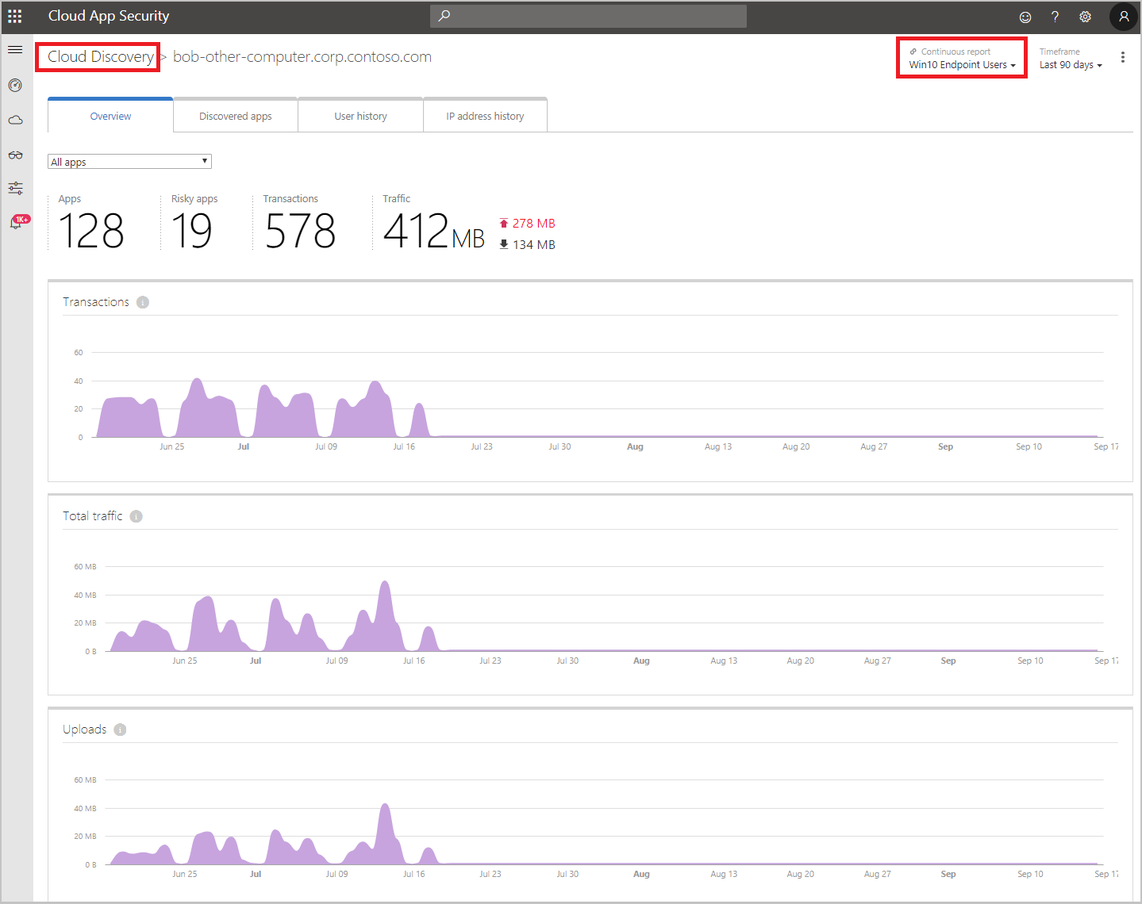
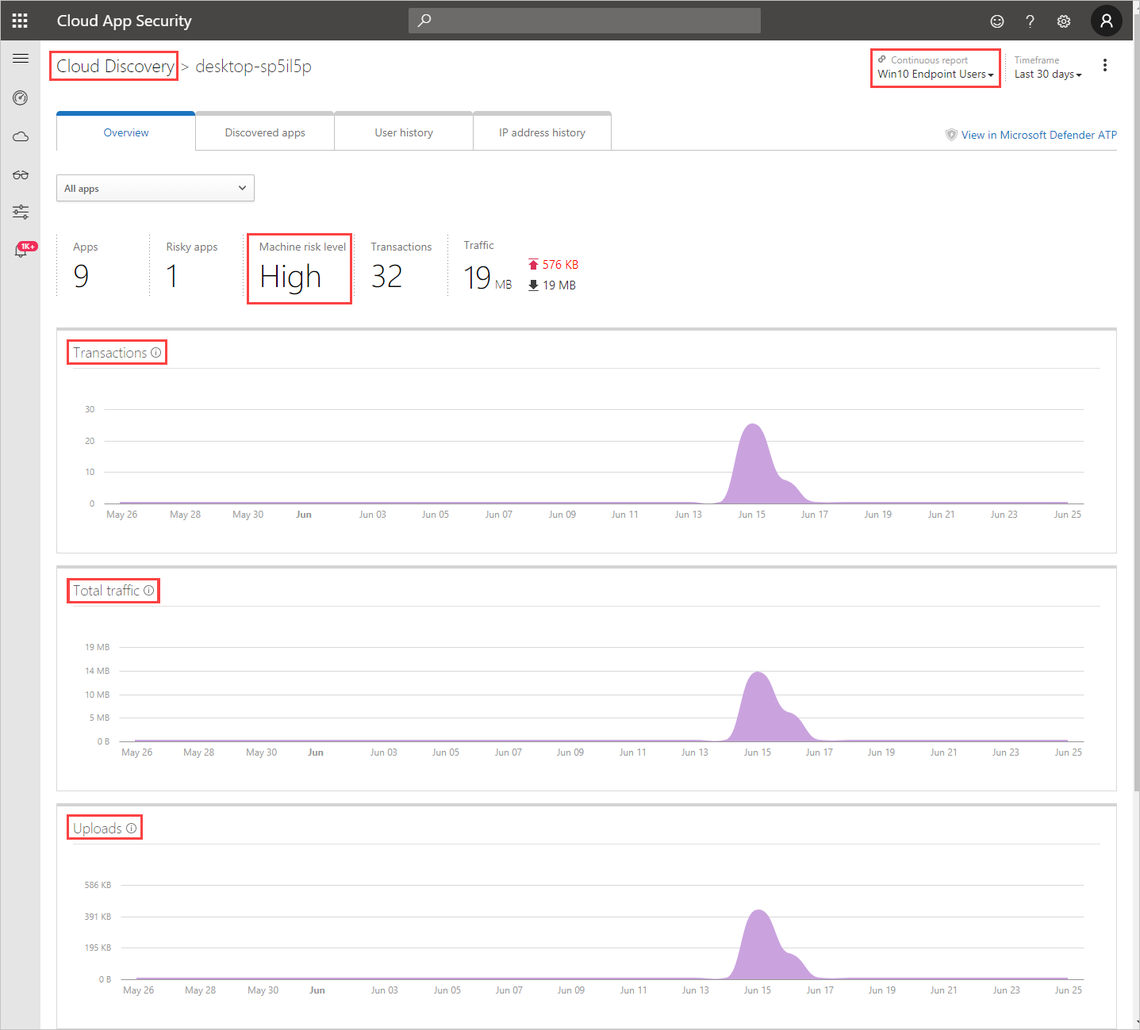
Release 178

diff --git a/CloudAppSecurityDocs/release-notes.md b/CloudAppSecurityDocs/release-notes.md
@@ -27,15 +27,33 @@ This article is updated frequently to let you know what's new in the latest rele
 
 RSS feed: Get notified when this page is updated by copying and pasting the following URL into your feed reader: `https://docs.microsoft.com/api/search/rss?search=%22This+article+is+updated+frequently+to+let+you+know+what%27s+new+in+the+latest+release+of+Cloud+App+Security%22&locale=en-us`
 
-## Cloud App Security release 177
+## Cloud App Security release 178
 
-Released June 14, 2020
+Released June 28, 2020
 
-- **New real-time malware detection (Preview, gradual rollout)**  
-We have expanded our session controls to detect potential malware using Microsoft Threat Intelligence upon file uploads or downloads. The new detection is now available out-of-the-box and can be configured to automatically block files identified as potential malware. For more information, see [Block malware on upload](session-policy-aad.md#block-malware-on-upload).
+- **New security configurations for Google Cloud Platform (gradual rollout)**  
+We've expanded our multi-cloud security configurations to provide security recommendations for Google Cloud Platform, based on the GCP CIS benchmark. With this new capability, Cloud App Security provides organizations with a single view for monitoring the compliance status across all cloud platforms, including [Azure subscriptions](security-config-azure.md), [AWS accounts](security-config-aws.md), and now [GCP projects](security-config-gcp.md).
 
-- **New access token support for access and session controls**  
-We've added the ability to treat access token and code requests as logins when onboarding apps to access and session controls. To use tokens, click the settings cog icon, select **Conditional Access App Control**, edit the relevant app (three dots menu > **Edit app**), select **Treat access token and code requests as app logins**, and then click **Save**. For more information about onboarding apps, see [Onboard and deploy any app](proxy-deployment-any-app.md) and [Deploy featured apps](proxy-deployment-aad.md).
+- **New app connectors GA**  
+We've added the following app connectors to our portfolio of generally available API connectors, giving you more visibility into and control over how your apps are used in your organization:
+  - [GitHub Enterprise Cloud](protect-github.md)
+  - [Google Cloud Platform](connect-google-gcp-to-microsoft-cloud-app-security.md)
+  - [Workday](protect-workday.md)
+
+- **New real-time malware detection GA (gradual rollout)**  
+We've expanded our session controls to detect potential malware using Microsoft Threat Intelligence upon file uploads or downloads. The new detection is now generally available out-of-the-box and can be configured to automatically block files identified as potential malware. For more information, see [Block malware on upload](session-policy-aad.md#block-malware-on-upload).
+
+- **Enhanced access and session controls with any IdP GA**  
+Access and session controls support for SAML apps configured with any identity provider is now generally available. For information about configuring these controls, see the [Deployment guide](proxy-deployment-aad.md).
+
+- **Risky machine investigation enhancement**  
+Cloud App Security provides the ability to identify risky machines as part of your shadow IT discovery investigation. Now, we've added the Microsoft Defender Advanced Threat Protection **Machine risk level** to the **machines** page giving analysts more context when investigating machines in your organization. For more information, see [Investigate machines in Cloud App Security](wdatp-integration.md#investigate-machines-in-cloud-app-security).
+
+- **New feature: Self-service disable app connector (gradual rollout)**  
+We've added the ability to disable app connectors directly in Cloud App Security. For more information, see [Disable app connectors](enable-instant-visibility-protection-and-governance-actions-for-your-apps.md#disable-connected-apps)
+
+- **Enhanced detection logic: Ransomware activity**  
+We've updated the detection logic for Ransomware activity to provide improved accuracy and reduced alert volume. For more information about this anomaly detection policy, see [Ransomware activity](anomaly-detection-policy.md#ransomware-activity).
 
 <!--
 - **New OAuth app policy templates**  
@@ -46,6 +64,16 @@ Cloud App Security now provides the following new OAuth app policy templates ena
   - **OAuth apps with high permissions and rare community use – Office**: Alert for apps with high permissions and rare community use in Office
   - **OAuth apps with rare community use - Salesforce**: Alert for apps with rare community use in Salesforce.
 -->
+
+## Cloud App Security release 177
+
+Released June 14, 2020
+
+- **New real-time malware detection (preview, gradual rollout)**  
+We've expanded our session controls to detect potential malware using Microsoft Threat Intelligence upon file uploads or downloads. The new detection is now available out-of-the-box and can be configured to automatically block files identified as potential malware. For more information, see [Block malware on upload](session-policy-aad.md#block-malware-on-upload).
+
+- **New access token support for access and session controls**  
+We've added the ability to treat access token and code requests as logins when onboarding apps to access and session controls. To use tokens, click the settings cog icon, select **Conditional Access App Control**, edit the relevant app (three dots menu > **Edit app**), select **Treat access token and code requests as app logins**, and then click **Save**. For more information about onboarding apps, see [Onboard and deploy any app](proxy-deployment-any-app.md) and [Deploy featured apps](proxy-deployment-aad.md).
 
 - **Enhanced proxy URL suffix for session controls (gradual rollout)**  
 On June 7, 2020, we started gradually rolling out our enhanced proxy session controls to use one unified suffix that doesn't include named regions. For example, users will see `<AppName>.mcas.ms` suffix instead of `<AppName>.<Region>.cas.ms`. If you routinely blacklist domains in your network appliances or gateways, make sure you whitelist all the domains listed under [Access and session controls](network-requirements.md#access-and-session-controls).
@@ -76,7 +104,7 @@ Starting June 7, 2020, we are gradually rolling out our enhanced proxy session c
 We've made significant network performance improvements to our proxy service. The improved service is even more streamlined and provides increased responsiveness when using session controls.
 
 - **New risky activity detection: Unusual failed logon**  
-We have expanded our current capability to detect risky behavior. The new detection is now available out-of-the-box and automatically enabled to alert you when an unusual failed login attempt is identified. Unusual failed login attempts may be an indication of a potential *password-spray* brute force attack (also known as the *low and slow* method). This detection impacts the overall [investigation priority score](tutorial-ueba.md) of the user.
+We've expanded our current capability to detect risky behavior. The new detection is now available out-of-the-box and automatically enabled to alert you when an unusual failed login attempt is identified. Unusual failed login attempts may be an indication of a potential *password-spray* brute force attack (also known as the *low and slow* method). This detection impacts the overall [investigation priority score](tutorial-ueba.md) of the user.
 
 - **Enhanced table experience**  
 We've added the ability to resize table column widths, so that you can widen or narrow columns to customize and improve the way you view tables. You also have the option to restore the original layout by selecting the table settings menu and choosing **Default width**.
@@ -95,14 +123,14 @@ Cloud App Security Cloud Discovery analyzes a wide range of traffic logs to rank
 As part of our ongoing improvements to the portal design, we are now gradually rolling out the improved Cloud App Security dashboard. The dashboard has been modernized based on your feedback and offers an enhanced user experience with updated content and data. For more information, see [Gradual deployment of our enhanced dashboard](daily-activities-to-protect-your-cloud-environment.md).
 
 - **Enhanced governance: Confirm User Compromised for anomaly detections**  
-We have expanded our current governance actions for anomaly policies to include **Confirm User Compromised** allowing you to proactively protect your environment from suspicious user activity. For more information, see [Activity governance actions](governance-actions.md#activity-governance-actions).
+We've expanded our current governance actions for anomaly policies to include **Confirm User Compromised** allowing you to proactively protect your environment from suspicious user activity. For more information, see [Activity governance actions](governance-actions.md#activity-governance-actions).
 
 ## Cloud App Security release 173 and 174
 
 Released April 26, 2020
 
 - **New SIEM agent CEF format for alerts**  
-As part of our effort to enrich the alert information provided in the CEF files used by generic SIEM servers, we have extended the format to include the following client fields:
+As part of our effort to enrich the alert information provided in the CEF files used by generic SIEM servers, we've extended the format to include the following client fields:
   - IPv4 address
   - IPv6 address
   - IP address location
@@ -118,14 +146,14 @@ Released April 5, 2020
 - **Enhanced access and session controls with any IdP (preview)**  
 Access and session controls now support SAML apps configured with any identity provider. The public preview of this new feature is now gradually rolling out. To configure these controls, see the [Deployment guide](proxy-deployment-aad.md).
 - **New bulk deanonymization of users and machines**  
-We have expanded and simplified the process of deanonymizing one or more users and machines under investigation. For more information about bulk deanonymization, see [How data anonymization works](cloud-discovery-anonymizer.md#how-data-anonymization-works).
+We've expanded and simplified the process of deanonymizing one or more users and machines under investigation. For more information about bulk deanonymization, see [How data anonymization works](cloud-discovery-anonymizer.md#how-data-anonymization-works).
 
 ## Cloud App Security release 170 and 171
 
 Released March 22, 2020
 
 - **New anomaly detection: Unusual region for cloud resource (preview)**  
-We have expanded our current capability to detect anomalous behavior for AWS. The new detection is now available out-of-the-box and automatically enabled to alert you when a resource is created in an AWS region where the activity is not normally performed. Attackers often leverage an organization's AWS credits to perform malicious activities such as crypto-mining. Detecting such anomalous behavior can help mitigate an attack.
+We've expanded our current capability to detect anomalous behavior for AWS. The new detection is now available out-of-the-box and automatically enabled to alert you when a resource is created in an AWS region where the activity is not normally performed. Attackers often leverage an organization's AWS credits to perform malicious activities such as crypto-mining. Detecting such anomalous behavior can help mitigate an attack.
 
 - **New activity policy templates for Microsoft Teams**  
 Cloud App Security now provides the following new activity policy templates enabling you to detect potentially suspicious activities in Microsoft Teams:
@@ -141,7 +169,7 @@ You can now control the severity of Azure AD Identity Protection alerts that are
 Released March 1, 2020
 
 - **New detection for Workday**  
-We have expanded our current anomalous behavior alerts for Workday. The new alerts include the following user geo-location detections:
+We've expanded our current anomalous behavior alerts for Workday. The new alerts include the following user geo-location detections:
   - [Activity from anonymous IP addresses](anomaly-detection-policy.md#activity-from-anonymous-ip-addresses)
   - [Activity from infrequent country](anomaly-detection-policy.md#activity-from-infrequent-country)
   - [Activity from suspicious IP addresses](anomaly-detection-policy.md#activity-from-suspicious-ip-addresses)
@@ -164,7 +192,7 @@ Released February 16, 2020
 Cloud App Security has extended its native integration with Microsoft Defender Advanced Threat Protection (ATP). You can now block access to apps marked as unsanctioned using Microsoft Defender ATP's network protection capability. For more information, see [Block access to unsanctioned cloud apps](wdatp-integration.md#block-access-to-unsanctioned-cloud-apps).
 
 - **New OAuth app anomaly detection**  
-We have expanded our current capability to detect malicious OAuth app consent. The new detection is now available out-of-the-box and automatically enabled to alert you when a potentially malicious OAuth app is authorized in your environment. This detection leverages Microsoft security research and threat intelligence expertise to identify malicious apps.
+We've expanded our current capability to detect malicious OAuth app consent. The new detection is now available out-of-the-box and automatically enabled to alert you when a potentially malicious OAuth app is authorized in your environment. This detection leverages Microsoft security research and threat intelligence expertise to identify malicious apps.
 
 - **Log collector updates**  
 The Docker-based log collector was enhanced with the following important updates:
@@ -330,7 +358,7 @@ Since previewing Conditional Access App Control for any app last month, we've re
 Cloud App Security is gradually rolling out the ability to get a security configuration assessment of your Amazon Web Services environment for CIS compliance, and provides recommendations for missing configurations and security controls. This ability provides organizations with a single view for monitoring the compliance status for all connected AWS accounts.
 
 - **OAuth app anomaly detections**  
-We have expanded our current capability to detect suspicious OAuth apps. Four new detections are now available out-of-the-box that profile the metadata of OAuth apps authorized in your organization to identify ones that are potentially malicious.
+We've expanded our current capability to detect suspicious OAuth apps. Four new detections are now available out-of-the-box that profile the metadata of OAuth apps authorized in your organization to identify ones that are potentially malicious.
 
 ## Cloud App Security release 153
 
@@ -355,7 +383,7 @@ Cloud App Security scans files from your connected apps for DLP exposure and mal
 Released June 23, 2019
 
 - **Deploy Conditional Access App Control for any app (preview)**  
-We are excited to announce that we have expanded our support for Conditional Access App Control to any web app, in addition to the rich support we already offer for [our featured applications](proxy-intro-aad.md). This new capability allows you to deploy any web app to work with session and access policies, enabling powerful real-time monitoring and control. For example, you can protect downloads with Azure Information Protection labels, block upload of sensitive documents, providing auditing, among many others.
+We are excited to announce that we've expanded our support for Conditional Access App Control to any web app, in addition to the rich support we already offer for [our featured applications](proxy-intro-aad.md). This new capability allows you to deploy any web app to work with session and access policies, enabling powerful real-time monitoring and control. For example, you can protect downloads with Azure Information Protection labels, block upload of sensitive documents, providing auditing, among many others.
 - **Portal activity auditing**  
 Cloud App Security audits all admin activity in the portal to provide you with comprehensive monitoring and investigation of activities performed. Now you can also export up to 90 days of activities for further investigation and analysis, for example, auditing of an admin investigating a specific user or viewing specific alerts. To export the log, go to the **Manage admin access** settings page.
 - **Custom session sign out from Cloud App Security portal**  

diff --git a/CloudAppSecurityDocs/governance-actions.md b/CloudAppSecurityDocs/governance-actions.md
@@ -136,10 +136,10 @@ For information about how governance actions are treated when there are policy c
 |Activity policy, Accounts | Account |Require user to sign in again|Revokes all refresh tokens and session cookies issues to applications by the user. This action will prevent access to any of the organization's data and will force the user to sign into all applications again.| G Suite, Office|
 |Activity policy, Accounts | Account |Confirm user compromised|Set the user's risk level to high. This causes the relevant policy actions defined in Azure AD to be enforced. | Office |
 |Activity policy, Accounts | Account | Revoke admin privileges |Revokes privileges for an admin account. For example, setting an activity policy that revokes admin privileges after 10 failed login attempts. | G Suite|
-|App dashboard > App permissions |Permissions|Unban app| In Google and Salesforce: remove the banning from the app and allow users to give permissions to the third-party app with their Google or Salesforce. In Office 365: restores the permissions of the third-party app’s to Office. |G Suite, Salesforce, Office |
+|App dashboard > App permissions |Permissions|Unban app| In Google and Salesforce: remove the banning from the app and allow users to give permissions to the third-party app with their Google or Salesforce. In Office 365: restores the permissions of the third-party app's to Office. |G Suite, Salesforce, Office |
 |App dashboard > App permissions |Permissions| Disable app permissions | Revoke a third-party app's permissions to Google, Salesforce, or Office. This is a one-time action that will occur on all existing permissions, but won't prevent future connections.|G Suite, Salesforce, Office |
 |App dashboard > App permissions |Permissions| Enable app permissions |Grant a third-party app's permissions to Google, Salesforce, or Office. This is a one-time action that will occur on all existing permissions, but won't prevent future connections.|G Suite, Salesforce, Office |
-|App dashboard > App permissions |Permissions| Ban app | In Google and Salesforce: revoke a third-party app's permissions to Google or Salesforce and ban it from receiving permissions in the future. In Office 365: doesn’t allow the permission of third-party apps to access Office, but doesn’t revoke them. |G Suite, Salesforce, Office |
+|App dashboard > App permissions |Permissions| Ban app | In Google and Salesforce: revoke a third-party app's permissions to Google or Salesforce and ban it from receiving permissions in the future. In Office 365: doesn't allow the permission of third-party apps to access Office, but doesn't revoke them. |G Suite, Salesforce, Office |
 |App dashboard > App permissions |Permissions|Revoke app|Revoke a third-party app's permissions to Google or Salesforce. This is a one-time action that will occur on all existing permissions, but won't prevent future connections. | G Suite, Salesforce|
 |App dashboard > App permissions | Account | Revoke user from app|You can revoke specific users when clicking on the number under Users. The screen will display the specific users and you can use the X to delete permissions for any user.| G Suite, Salesforce|
 |Discover > Discovered Apps/IP addresses/Users| Cloud Discovery | Export discovery data | Creates a CSV from the discovery data. | Discovery |
@@ -155,7 +155,7 @@ For information about how governance actions are treated when there are policy c
 |File policy, Activity policy, Alerts | App |Require users to sign in again| You can require users to sign in again to all Office 365 and Azure AD apps as a quick and effective remediation for suspicious user activity alerts and compromised accounts. You can find the new governance in the policy settings and the alert pages, next to the Suspend user option. | Office 365, Azure AD |
 |Files |File |Restore from user quarantine |Restores a user from being quarantined. |Box |
 |Files |File | Grant read permissions to myself| Grants read permissions for the file for yourself so you can access the file and understand if it has a violation or not.| G Suite|
-|Files |File | Allow editors to share | In Google Drive, the default editor permission of a file allows sharing as well. This governance action is the opposite of Remove editor’s ability to share and enables the editor to share the file. | G Suite|
+|Files |File | Allow editors to share | In Google Drive, the default editor permission of a file allows sharing as well. This governance action is the opposite of Remove editor's ability to share and enables the editor to share the file. | G Suite|
 |Files |File | Protect | Protect a file with Azure Information Protection by applying an organization template. | Office 365 (SharePoint and OneDrive) |
 |Files |File | Revoke read permissions form myself | Revokes read permissions for the file for yourself, useful after granting yourself permission to understand if a file has a violation or not.| G Suite|
 |Files, File policy|File | Transfer file ownership | Changes the owner - in the policy you choose a specific owner. | G Suite|

diff --git a/CloudAppSecurityDocs/enable-instant-visibility-protection-and-governance-actions-for-your-apps.md b/CloudAppSecurityDocs/enable-instant-visibility-protection-and-governance-actions-for-your-apps.md
@@ -100,6 +100,7 @@ To use App Connectors, you need to make sure you have the following things for e
 | AWS | | Newly created user |
 | Box | Enterprise | It's strongly recommended that you connect to Box as an Admin. Connecting as a Coadmin will result in only partial data visibility. If you connect as a Coadmin, make sure to select all permissions. |
 | Dropbox | Business/Enterprise | Admin |
+| GitHub | GitHub Enterprise Cloud | Owner |
 | GCP | | See the [connect GCP prerequisites](connect-google-gcp-to-microsoft-cloud-app-security.md#prerequisites) |
 | G Suite | G Suite Business or Enterprise preferred<br /><br />G Suite Enterprise (minimally) | Super Admin |
 | Office 365 | | Global Admin |
@@ -114,6 +115,15 @@ To use App Connectors, you need to make sure you have the following things for e
 Cloud App Security is deployed in Azure and fully integrated with [ExpressRoute](https://azure.microsoft.com/documentation/articles/expressroute-introduction/). All interactions with the Cloud App Security apps and traffic sent to Cloud App Security, including upload of discovery logs, is routed via ExpressRoute **public peering** for improved latency, performance, and security. There are no configuration steps required from the customer side.
 For more information about  Public Peering, see [ExpressRoute circuits and routing domains](https://azure.microsoft.com/documentation/articles/expressroute-circuit-peerings/).
 
+## Disable app connectors
+
+To disable connected apps:
+
+1. In the **Connected apps** page, in the relevant row, click the three dots and select **Disable App connector**.
+1. In the pop-up, click **Disable App connector instance** to confirm the action.
+
+Once disabled, the connector instance will stop consuming data from the connector.
+
 ## Next steps
 
 > [!div class="nextstepaction"]
@@ -124,4 +134,4 @@ For more information about  Public Peering, see [ExpressRoute circuits and routi
 ## Check out this video!
 
 > [!div class="nextstepaction"]
-> [Microsoft Cloud App Security – REST API’s and Tokens](https://channel9.msdn.com/Shows/Microsoft-Security/Microsoft-Cloud-App-Security--REST-APIs-and-Tokens)
+> [Microsoft Cloud App Security – REST API's and Tokens](https://channel9.msdn.com/Shows/Microsoft-Security/Microsoft-Cloud-App-Security--REST-APIs-and-Tokens)

diff --git a/CloudAppSecurityDocs/wdatp-integration.md b/CloudAppSecurityDocs/wdatp-integration.md
@@ -85,10 +85,11 @@ After you integrate Microsoft Defender ATP with Cloud App Security, you can inve
 5. You can drill down into each machine that's listed, and use the tabs to view the investigation data. Find correlations between the machines, the users, IP addresses, and apps that were involved in incidents:
 
     - **Overview**
-        - Transactions: Information about the number of transactions that took place on the machine over the selected period of time.
-        - Total traffic: Information about the total amount of traffic (in MB) over the selected period of time.
+        - **Machine risk level**: Shows how risky the machine's profile is relative to other machines in your organization, as indicated by the severity (high, medium, low, informational). Cloud App Security uses machine profiles from Microsoft Defender ATP for each machine based on advanced analytics. Activity that is anomalous to a machine's baseline is evaluated and determines the machine's risk level. Use the machine risk level to determine which machines to investigate first.
+        - **Transactions**: Information about the number of transactions that took place on the machine over the selected period of time.
+        - **Total traffic**: Information about the total amount of traffic (in MB) over the selected period of time.
         - Uploads: Information about the total amount of traffic (in MB) uploaded by the machine over the selected period of time.
-        - Downloads: Information about the total amount of traffic (in MB) downloaded by the machine over the selected period of time.
+        - **Downloads**: Information about the total amount of traffic (in MB) downloaded by the machine over the selected period of time.
     - **Discovered apps**  
   Lists all the discovered apps that were accessed by the machine.
     - **User history**  

diff --git a/CloudAppSecurityDocs/connect-google-gcp-to-microsoft-cloud-app-security.md b/CloudAppSecurityDocs/connect-google-gcp-to-microsoft-cloud-app-security.md
@@ -17,14 +17,14 @@ ms.service: cloud-app-security
 #ms.subservice: na
 ms.collection: M365-security-compliance
 ---
-# Connect Google Cloud Platform to Microsoft Cloud App Security (Preview)
+# Connect Google Cloud Platform to Microsoft Cloud App Security
 
 *Applies to: Microsoft Cloud App Security*
 
 This article provides instructions for connecting Microsoft Cloud App Security to your existing Google Cloud Platform (GCP) account using the connector APIs. This connection gives you visibility into and control over GCP use. For information about how Cloud App Security protects GCP, see [Protect GCP](protect-gcp.md).
 
 > [!NOTE]
-> The instructions for connecting your GCP environment follow [Google’s recommendations](https://cloud.google.com/blog/products/gcp/best-practices-for-working-with-google-cloud-audit-logging) for consuming aggregated logs. The integration leverages Google StackDriver and will consume additional resources that might impact your billing. The consumed resources are:
+> The instructions for connecting your GCP environment follow [Google's recommendations](https://cloud.google.com/blog/products/gcp/best-practices-for-working-with-google-cloud-audit-logging) for consuming aggregated logs. The integration leverages Google StackDriver and will consume additional resources that might impact your billing. The consumed resources are:
 >
 > * [Aggregated export sink – Organization level](https://cloud.google.com/logging/docs/export/aggregated_exports#concept)
 > * [Pub/Sub topic – GCP project level](https://cloud.google.com/logging/docs/export/using_exported_logs#pubsub-overview)

diff --git a/CloudAppSecurityDocs/aadip-integration.md b/CloudAppSecurityDocs/aadip-integration.md
@@ -69,6 +69,10 @@ The following policies are available:
 |Leaked Credentials|Shows leaked credentials alerts, user's valid credentials have been leaked|Enabled|Low - Receive all alerts|
 |Risky sign-in|Aggregates multiple risky sign-in detections, sign-ins that weren't performed by the user|Enabled|High - Receive only high severity alerts|
 
+## Remediating risky users
+
+The Identity Protection policies can be used to automatically remediate risky users by setting the user's risk level to high. Once a user is set to high, the advanced user risk analytics algorithm takes into consideration the new user status as well as the *Machine Device Management* status. This causes the relevant policy actions defined in Azure AD to be enforced, such as reset the user's password, require MFA authentication, or force the user to use a managed device. For more information, see [How does Azure AD use my risk feedback](https://docs.microsoft.com/azure/active-directory/identity-protection/howto-identity-protection-risk-feedback#how-does-azure-ad-use-my-risk-feedback) and [Governance actions](accounts.md#governance-actions).
+
 ## Next steps
 
 > [!div class="nextstepaction"]

diff --git a/CloudAppSecurityDocs/anomaly-detection-policy.md b/CloudAppSecurityDocs/anomaly-detection-policy.md
@@ -120,7 +120,12 @@ The detection looks for users whose account was terminated in Azure AD, but stil
 
 ### Suspicious email deletion activity (Preview)
 
-* This policy profiles your environment and triggers alerts when a user performs suspicious email deletion activities in a single session. This policy may indicate that a user mailboxes may be compromised by potential attack vectors such as command-and-control communication (C&C/C2) over email.
+* This policy profiles your environment and triggers alerts when a user performs suspicious email deletion activities in a single session. This policy may indicate that a user's mailboxes may be compromised by potential attack vectors such as command-and-control communication (C&C/C2) over email.
+
+> [!NOTE]
+> Cloud App Security integrates with Office Advanced Threat Protection (Office ATP) to provide protection for Exchange online, including URL detonation, malware protection, and more. Once Office ATP is enabled, you'll start seeing alerts in the Cloud App Security activity log.
+
+<!-- // MATP? Delay tile start appearing? -->
 
 ### Unusual activities (by user)
 

diff --git a/CloudAppSecurityDocs/connect-github-ec-to-microsoft-cloud-app-security.md b/CloudAppSecurityDocs/connect-github-ec-to-microsoft-cloud-app-security.md
@@ -25,11 +25,9 @@ ms.suite: ems
 ms.custom: seodec18
 
 ---
-# Connect GitHub Enterprise Cloud to Microsoft Cloud App Security (Preview)
+# Connect GitHub Enterprise Cloud to Microsoft Cloud App Security
 
 *Applies to: Microsoft Cloud App Security*
-
-The GitHub Enterprise Cloud API connector is currently in private preview and being gradually rolled out. This preview version is provided without a service level agreement, and it's not recommended for production workloads. Certain features might not be supported or might have constrained capabilities. For more information, see [Supplemental Terms of Use for Microsoft Azure Previews](https://azure.microsoft.com/support/legal/preview-supplemental-terms/).
 
 This article provides instructions for connecting Microsoft Cloud App Security to your existing GitHub Enterprise Cloud organization using the App Connector APIs. This connection gives you visibility into and control over your organization's GitHub Enterprise Cloud use. For more information about how Cloud App Security protects GitHub Enterprise Cloud, see [Protect GitHub Enterprise](protect-github.md).
 

diff --git a/CloudAppSecurityDocs/connect-workday-to-microsoft-cloud-app-security.md b/CloudAppSecurityDocs/connect-workday-to-microsoft-cloud-app-security.md
@@ -25,7 +25,7 @@ ms.suite: ems
 ms.custom: seodec18
 
 ---
-# Connect Workday to Microsoft Cloud App Security (Preview)
+# Connect Workday to Microsoft Cloud App Security
 
 *Applies to: Microsoft Cloud App Security*
 
